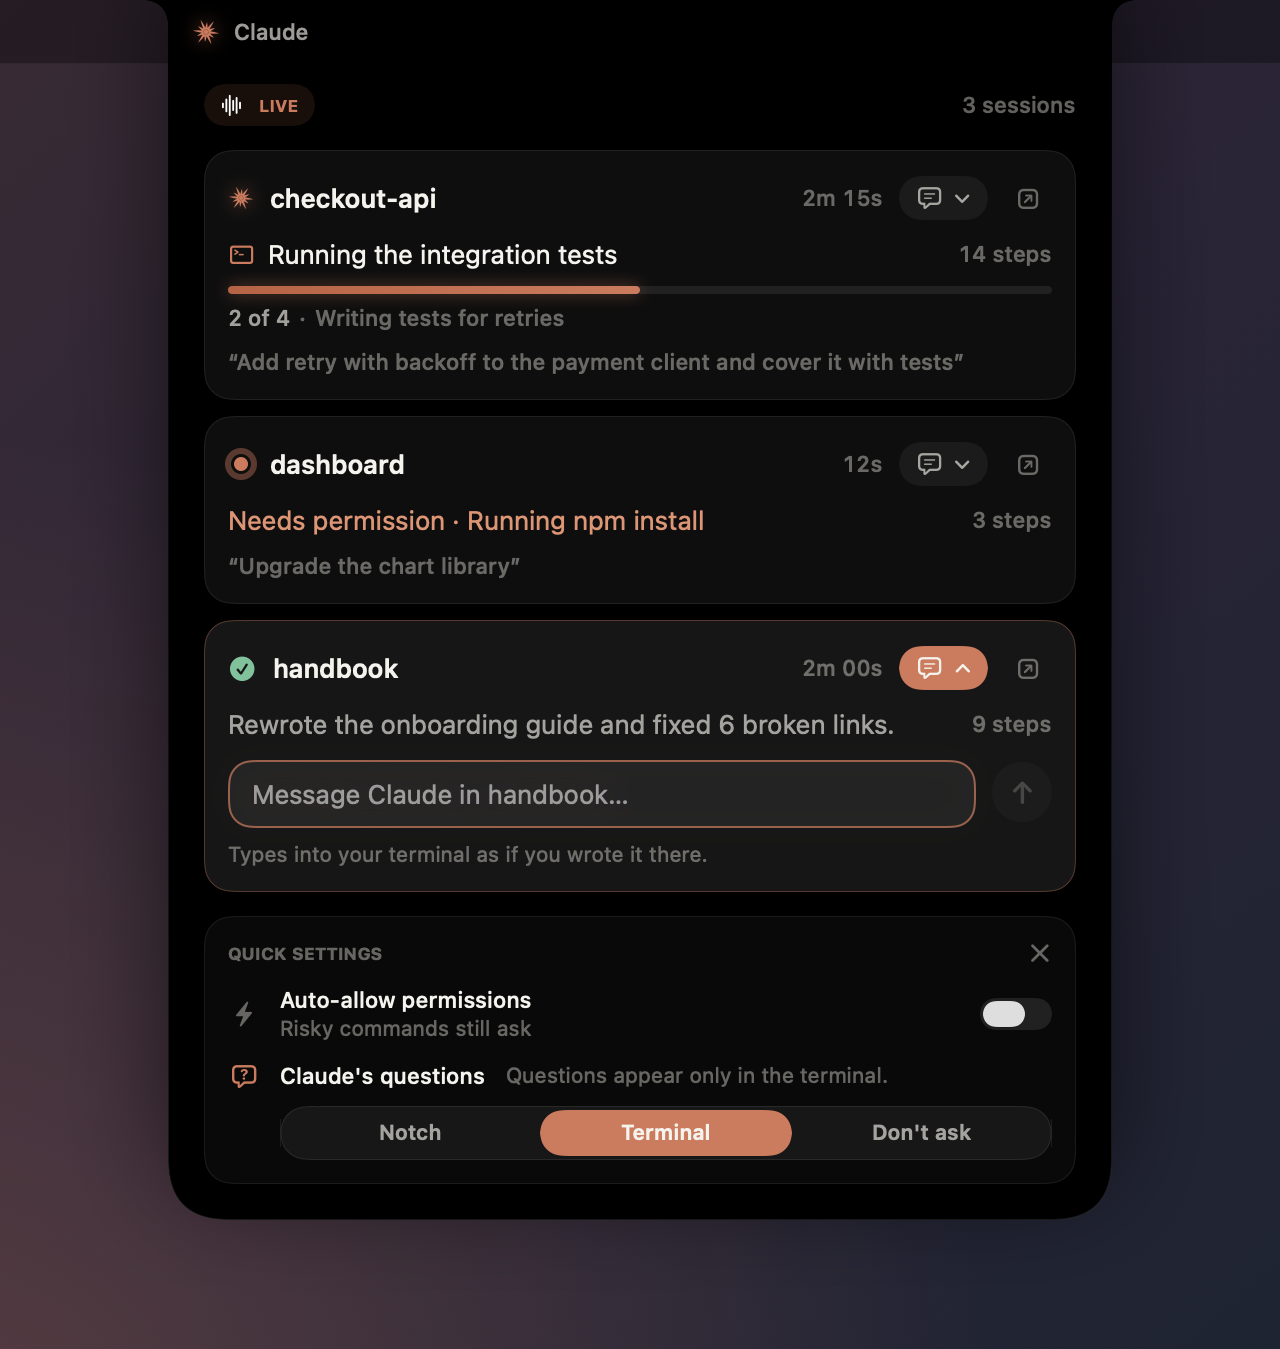
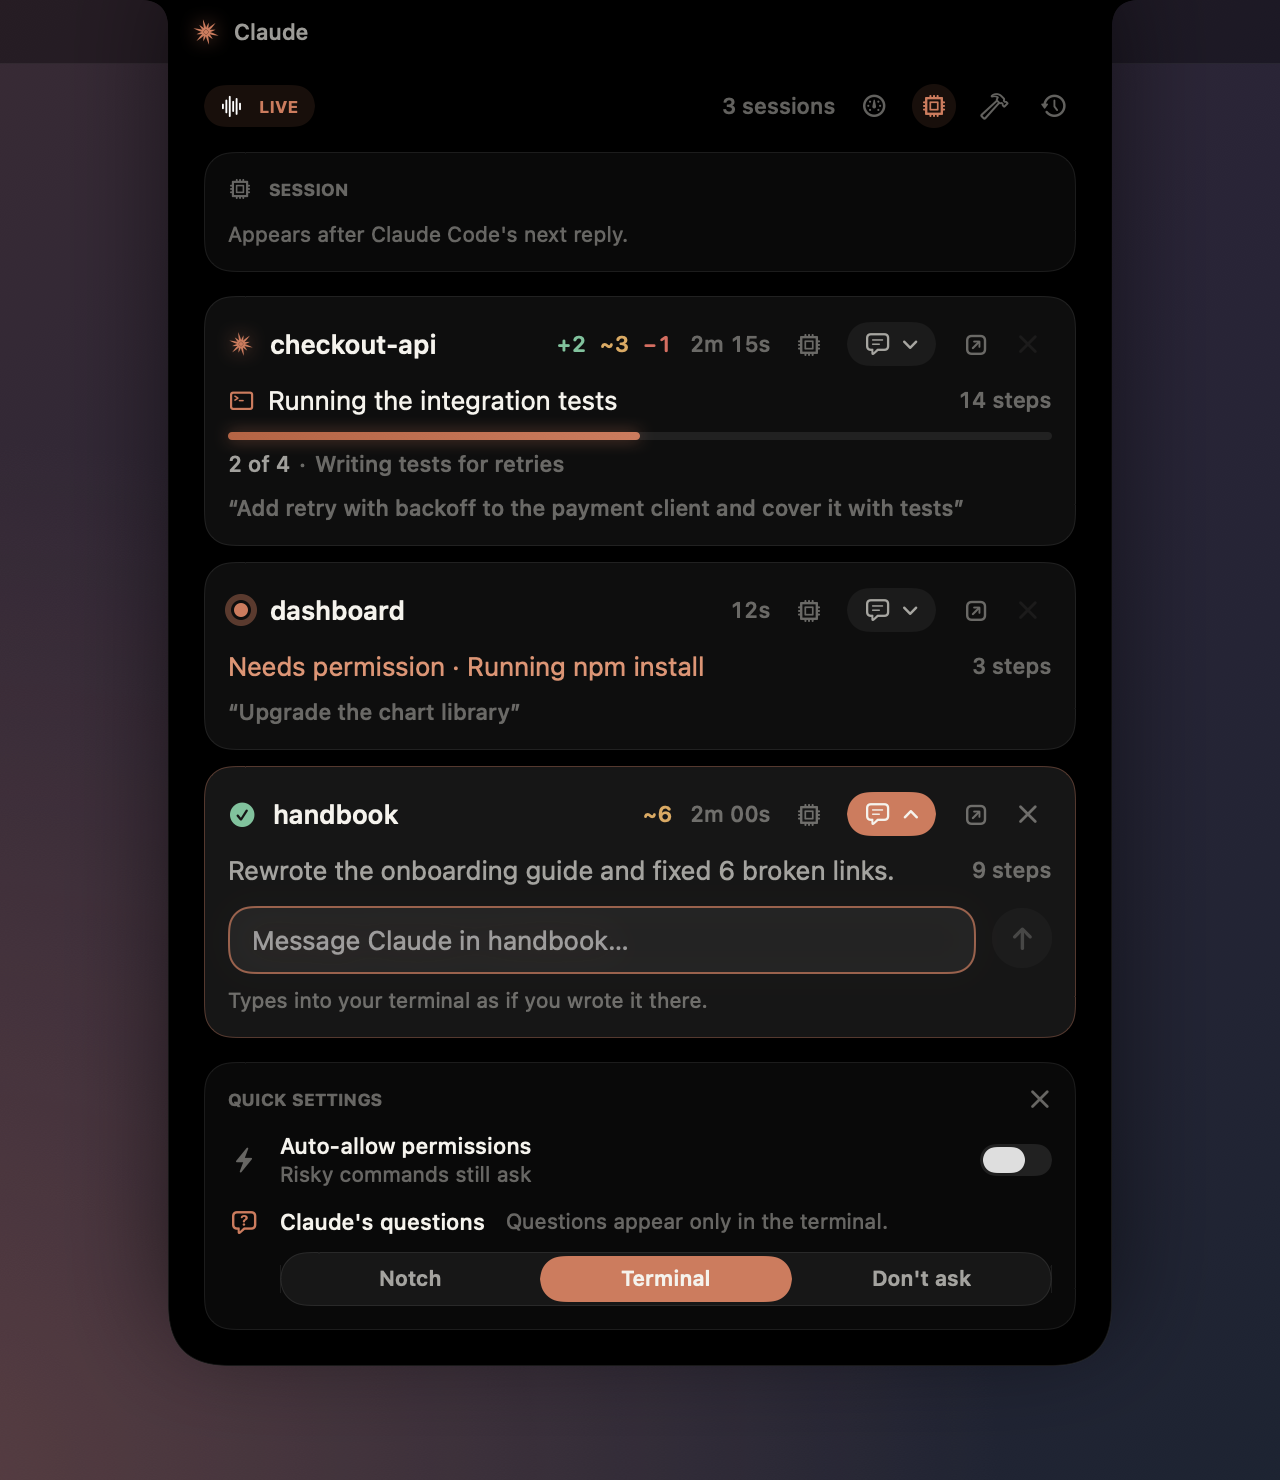
Update README and enhance SnapshotRenderer for new widget features
- Revised README to reflect updates in NotchGate, including new usage and session widgets, and improved descriptions for features.
- Added new images for activity usage, tools, and image attachment functionalities.
- Updated `SnapshotRenderer` to ensure the usage card is displayed by default and to manage widget visibility settings.
- Introduced new assets for enhanced user experience, including water reminder visuals and activity tracking images.

diff --git a/Sources/NotchGate/Support/SnapshotRenderer.swift b/Sources/NotchGate/Support/SnapshotRenderer.swift
@@ -44,6 +44,9 @@ enum SnapshotRenderer {
         }
         render(to: directory.appendingPathComponent("activity-usage.png")) { model in
             model.activity.load(DemoActivity.sessions())
+            // The usage card starts closed (its gauge button opens it); show both widgets.
+            model.settings.usageCardShown = true
+            model.settings.showQuickSettingsInNotch = false
             let now = Date()
             model.usage.showPreview(UsageSnapshot(
                 fiveHour: .init(usedPercentage: 23.5, resetsAt: now.addingTimeInterval(2 * 3600 + 14 * 60)),

diff --git a/README.md b/README.md
@@ -1,12 +1,12 @@
 <div align="center">
 
-<img src="assets/activity.png" alt="NotchGate showing live Claude Code activity from the MacBook notch" width="640">
+<img src="assets/activity-usage.png" alt="NotchGate showing plan usage, session costs and live Claude Code activity from the MacBook notch" width="640">
 
 # NotchGate
 
 **Answer Claude Code from your MacBook's notch.**
-Approve permissions, answer questions, follow progress and send the next prompt
-without switching back to the terminal.
+Approve permissions, answer questions, follow every session, watch your plan
+limits and send the next prompt without switching back to the terminal.
 
 ![macOS 14+](https://img.shields.io/badge/macOS-14%2B-black?logo=apple)
 ![Swift 6](https://img.shields.io/badge/Swift-6-F05138?logo=swift&logoColor=white)
@@ -82,6 +82,26 @@ on launch at login. Running it again simply updates NotchGate.
       <p align="center"><b>Know when Claude is done</b><br>Read the summary and send what's next.</p>
     </td>
   </tr>
+  <tr>
+    <td>
+      <img src="assets/activity-usage.png" alt="Usage and Sessions widgets">
+      <p align="center"><b>Usage and cost at a glance</b><br>5-hour and weekly limits, plus each session's model, context and cost.</p>
+    </td>
+    <td>
+      <img src="assets/activity-tools-resume.png" alt="Tools and Resume widgets">
+      <p align="center"><b>Tool activity and Resume</b><br>Which tools Claude called, and one click back into a recent session.</p>
+    </td>
+  </tr>
+  <tr>
+    <td>
+      <img src="assets/activity-drop.png" alt="Dragging an image onto the notch">
+      <p align="center"><b>Drop images on a project</b><br>Every session lights up as a target; drop on the one you mean.</p>
+    </td>
+    <td>
+      <img src="assets/activity-images.png" alt="Images attached to a prompt">
+      <p align="center"><b>Send screenshots with your prompt</b><br>Paste (⌘V) or drag; Claude gets them as file paths.</p>
+    </td>
+  </tr>
 </table>
 
 <p align="center">
@@ -96,7 +116,12 @@ on launch at login. Running it again simply updates NotchGate.
 - **When Claude needs you**, a card grows out of the notch. Answer it there, or in
   the terminal as usual; whichever you use first wins, and the other clears itself.
 - **Hover the notch anytime** to see every Claude session: what it's doing, its
-  to-do progress, how long it has been working, and your last prompt.
+  to-do progress, how long it has been working, your last prompt, and the files it
+  added, changed and deleted (`+2 ~3 −1`; hover for line counts).
+- **Each session row** has its own buttons: the chip icon opens that session's
+  model, context and cost, 💬 opens a prompt box, ↗ brings its terminal to the
+  front, and ✕ removes it from the notch. ✕ only works once Claude has stopped,
+  so nothing it's doing goes unseen; the session comes back when you prompt it.
 - **Send a prompt** from the 💬 dropdown on any session. NotchGate types it into that
   session's terminal and presses Return, so Claude Code receives a genuine prompt.
 - **Attach images**: paste one (⌘V) into any notch prompt box, or drag images from
@@ -117,6 +142,23 @@ on launch at login. Running it again simply updates NotchGate.
 
 ---
 
+## Widgets
+
+Glanceable cards at the top of the hover panel. Each has a button in the panel's
+header to open or close it, and a switch under **✦ → Widgets**.
+
+| Widget | Shows |
+| --- | --- |
+| **Usage** (gauge) | Your plan's 5-hour and weekly limits, with when each resets. Needs a Pro or Max plan. |
+| **Session** (cpu) | Model, context window fill, cost and git branch. With several sessions running, a line for each plus their total cost. |
+| **Tool activity** (hammer) | Bash, Edit, Read, Search, Web, Agents and MCP calls as a split bar with counts, and a heat strip of the last hour. Chips switch between all sessions and one. |
+| **Resume** (clock) | Recent sessions that aren't running, each one click from `claude --resume` in a new Terminal window, plus **New session** in a recent project or any folder. |
+
+Usage and Session read Claude Code's status line through a small relay; your
+own status line keeps showing exactly as before.
+
+---
+
 ## Settings
 
 Open the ✦ menu. Every section folds open or closed.
@@ -126,19 +168,27 @@ Open the ✦ menu. Every section folds open or closed.
 | Permissions (commands, web, MCP tools) | **On** |
 | File edits · Questions · Plan approvals · Reply when done | Off (handled in the terminal) |
 
-Also available: **Auto-allow permissions** (risky commands like `rm -rf`, `sudo`
+Also available: **Widgets** (see above), **Auto-allow permissions** (risky commands like `rm -rf`, `sudo`
 and `git push --force` still ask), **Claude's questions** (Notch / Terminal /
 Don't ask), live activity on hover, sounds and launch at login.
 
 ### Extras
 
-Optional notch features unrelated to Claude, off by default.
+Optional notch features unrelated to Claude. Turn them on or off under **✦ → Extras**.
 
-- **Water reminder**: every 30 minutes (adjustable from 5 minutes to 4 hours) a little bot
+<p align="center">
+  <img src="assets/water-reminder-hover.png" alt="The water bot hanging from the notch with a bottle" width="420">
+</p>
+
+- **Water reminder** (on by default): every 15 minutes (adjustable from 5 minutes to 4 hours) a little bot
   drops out of the notch on a rope, holding a bottle. Hover it for **Drank it** or
   **Snooze**; poke it and it giggles. It gets more insistent the longer you
   ignore it, waits while you're away from the Mac, and counts glasses toward a
-  daily goal.
+  daily goal (8 glasses by default). Snooze for 5, 10, 15 or 30 minutes.
+
+<p align="center">
+  <img src="assets/water-bot-moods.png" alt="Every mood of the water bot: cheerful, excited, pleading, thirsty, delighted, sleepy, tickled" width="720">
+</p>
 
 ### Keyboard shortcuts (while a request is waiting)
 
@@ -166,7 +216,8 @@ offers an update once that build is published.
 curl -fsSL https://raw.githubusercontent.com/PrajsRamteke/NotchGate/main/install.sh | bash -s -- --uninstall
 ```
 
-This removes the app, its Claude Code hooks and the login item.
+This removes the app, its Claude Code hooks, the status line relay (your own
+status line is put back) and the login item.
 
 ## Privacy
 
